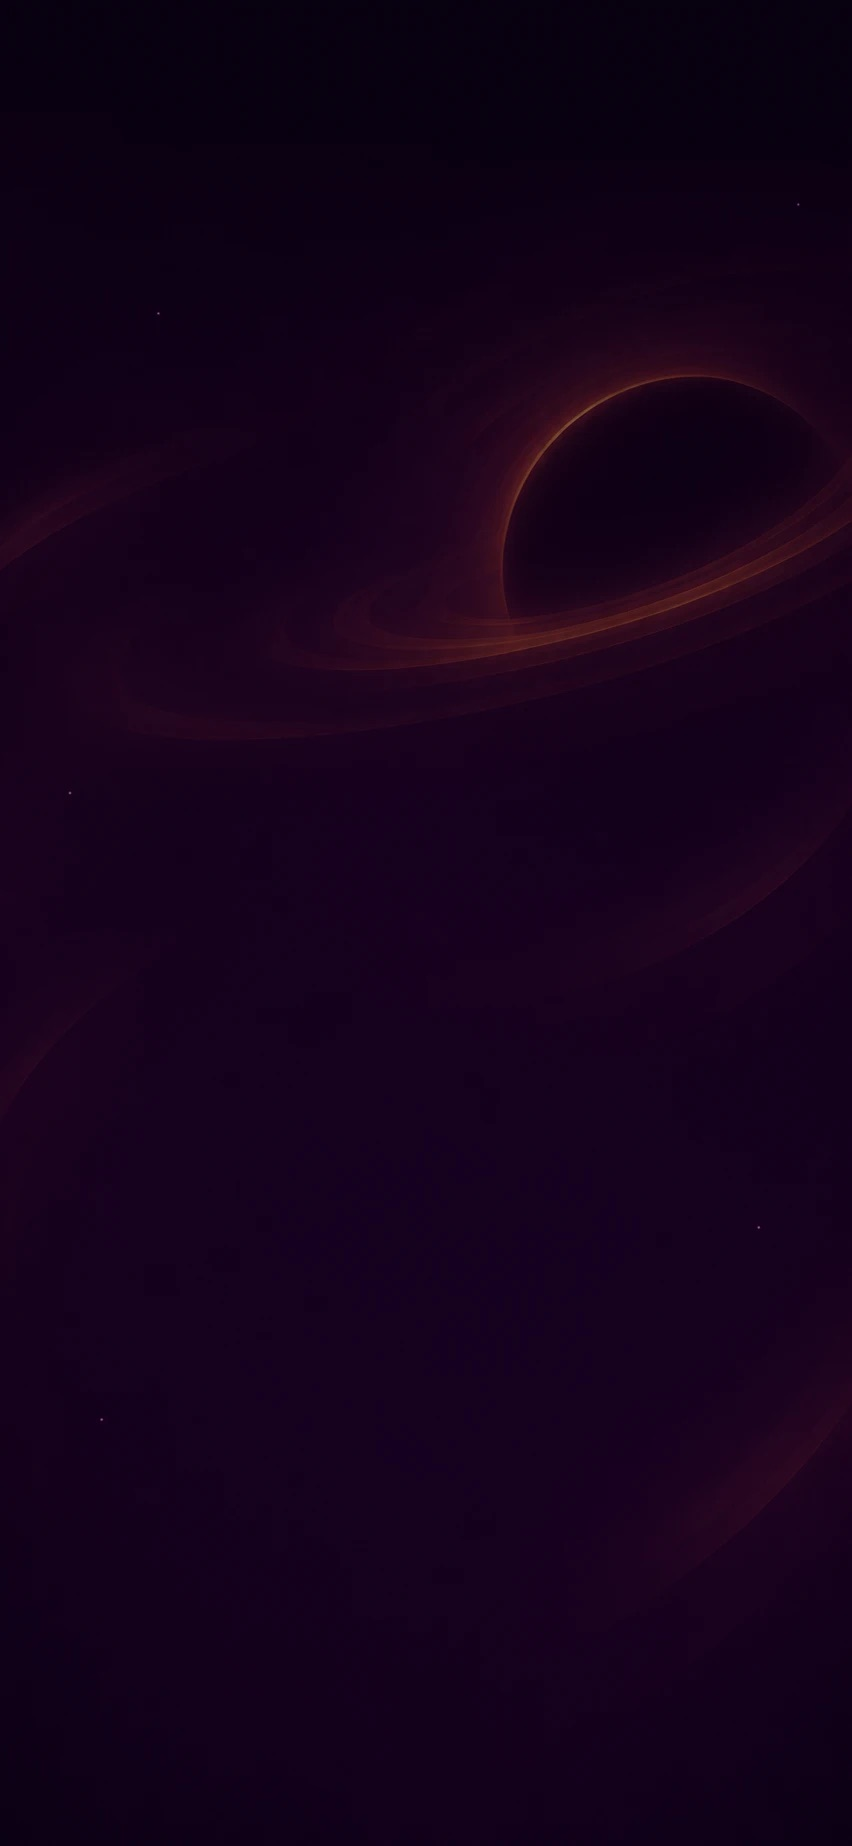
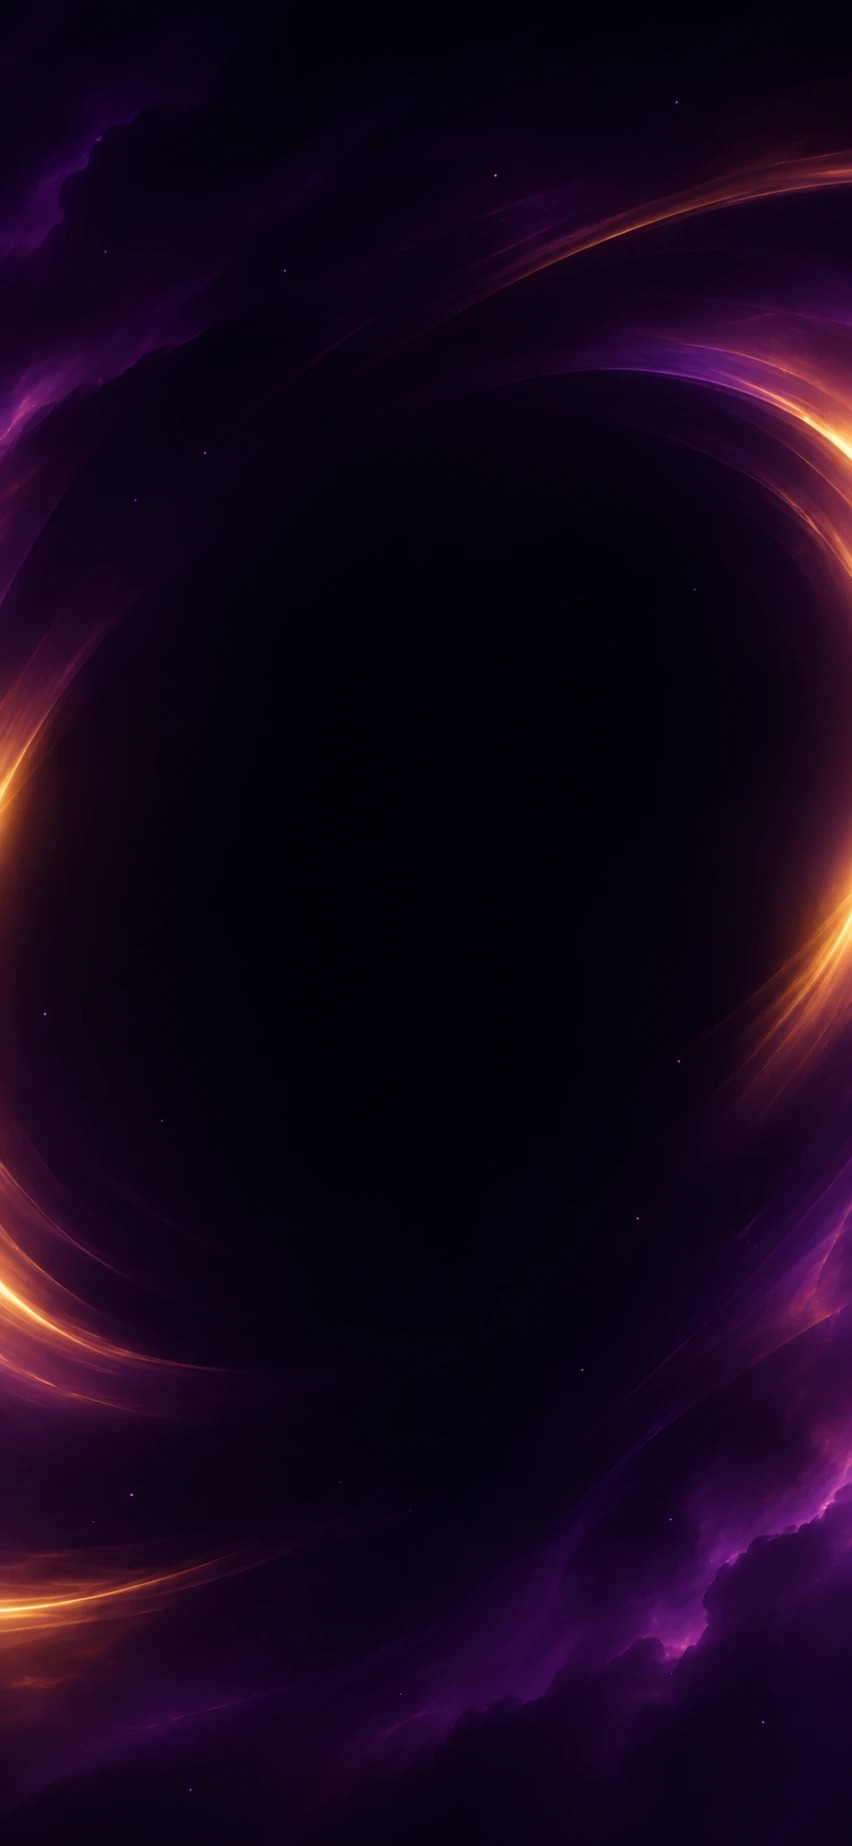
first-encounter explain cards, close-up black hole background, RESET in DEV, subtler star trails
- The first time something appears (enemy fire, shield, triple/double, bomb, crystal, overdrive,
  iron/explosive rock, meteor/beam warning, phantom, ion cloud) the game pauses with a spotlight
  and a short card; GOT IT resumes; each shown once and saved (ss_seen). Tip toasts removed.
- New close-up black hole background (dark center, gold/violet halo on the edges)
- DEV mode shows a two-tap RESET (progress + seen cards)
- Near-layer star trails much shorter and fainter

diff --git a/index.html b/index.html
@@ -372,6 +372,7 @@ let menuIdx  = 0;   // hedef kart indexi
 let menuAnimX = 0;  // smooth scroll x
 let titleTapCount = 0, titleTapTimer = 0; // gizli test modu: başlığa 5x hızlı dokun
 let devMode = false;
+let resetConfirmT = 0, resetDoneT = 0; // RESET butonu: onay ve 'DONE' göstergesi
 
 // --- Intro Cinematic ---
 const INTRO_PANELS = [
@@ -723,6 +724,10 @@ document.addEventListener('keydown', e => {
     if (e.code === 'Escape' || e.code === 'KeyP' || e.code === 'Space') state = 'play';
     return;
   }
+  if (state === 'play' && introCard) {
+    if ((e.code === 'Enter' || e.code === 'Space') && introCard.t > 15) closeIntroCard();
+    return;
+  }
   if (state === 'play' && briefing) {
     if (e.code === 'Enter' || e.code === 'Space') beginLevelPlay();
     return;
@@ -765,7 +770,7 @@ canvas.addEventListener('touchstart', e => {
 // Oyun içi swipe: parmak kalkmadan, 10px hareket eder etmez anında tetikle
 canvas.addEventListener('touchmove', e => {
   e.preventDefault();
-  if (state !== 'play' || briefing || swipeFired) return;
+  if (state !== 'play' || briefing || introCard || swipeFired) return;
   const t = e.changedTouches[0];
   const dx = t.clientX - touchStartX;
   const dy = t.clientY - touchStartY;
@@ -819,7 +824,7 @@ canvas.addEventListener('mousedown', e => {
 });
 
 canvas.addEventListener('mousemove', e => {
-  if (state !== 'play' || briefing || mouseSwipeFired) return;
+  if (state !== 'play' || briefing || introCard || mouseSwipeFired) return;
   const dx = e.clientX - mouseStartX;
   const dy = e.clientY - mouseStartY;
   if (Math.abs(dx) > Math.abs(dy) && Math.abs(dx) > 10) {
@@ -881,6 +886,17 @@ canvas.addEventListener('click', e => {
     if (mx > W - 48 && my > CARD.y && my < CARD.y + CARD.h) { menuIdx = Math.min(MENU_CARDS.length - 1, menuIdx + 1); return; }
     // Ses butonu (sol alt)
     if (mx < 60 && my > H - 40) { Sound.toggle(); Sound.sfx.click(); return; }
+    // RESET (yalnızca DEV modunda, iki dokunuşla): tüm ilerlemeyi ve açıklamaları sıfırlar
+    if (devMode && mx > W - 112 && mx < W - 58 && my > H - 36) {
+      Sound.sfx.click();
+      if (resetConfirmT > 0) {
+        ['ss_levels', 'ss_zones', 'ss_complete', 'ss_seen', 'ss_tutorial'].forEach(k => { try { localStorage.removeItem(k); } catch(e) {} });
+        seenIntro = {};
+        MENU_CARDS.forEach((c, i) => { c.locked = i > 0; });
+        resetConfirmT = 0; resetDoneT = 120;
+      } else resetConfirmT = 150;
+      return;
+    }
     // DEV butonu (sağ alt)
     if (mx > W - 52 && my > H - 36) {
       devMode = !devMode;
@@ -921,6 +937,10 @@ canvas.addEventListener('click', e => {
     exitZoneTransition(); return;
   }
 
+  if (state === 'play' && introCard) {
+    if (introCard.t > 15 && introBtn && inBtn(introBtn, mx, my)) closeIntroCard();
+    return;
+  }
   if (state === 'play' && briefing) {
     // Talimat kartı: sadece START başlatır
     if (briefBtn && inBtn(briefBtn, mx, my)) { Sound.sfx.click(); beginLevelPlay(); }
@@ -959,7 +979,7 @@ function startLevel(level) {
   asteroids = []; asteroidSpawnTimer = 0;
   boss = null; bossKillTimer = 0; returnToMap = false;
   lasers = []; deathCause = '';
-  countdown = 0; levelPlayT = 0; toasts = []; tipPlan = []; hurtFx = 0; bossWarn = 0; crystalFly = []; crystalPulse = 0;
+  countdown = 0; levelPlayT = 0; toasts = []; tipPlan = []; hurtFx = 0; bossWarn = 0; crystalFly = []; crystalPulse = 0; introCard = null;
   briefing = !!LEVEL_BRIEFS[level];
   // Zone 3: sis bulutları ekranı baştan kaplasın
   const _cfg = getLevelConfig();
@@ -1266,9 +1286,9 @@ function drawZoneBackdrop(zone) {
   // Önde akan yıldızlar (hız hissi)
   ctx.save();
   stars.forEach(st => {
-    if (st.spd > 1.4) { // yakın katman: hızlı, kısa iz
-      ctx.strokeStyle = `rgba(255,255,255,${0.2 + st.spd * 0.15})`; ctx.lineWidth = st.s;
-      ctx.beginPath(); ctx.moveTo(st.x, st.y - st.spd * 5); ctx.lineTo(st.x, st.y); ctx.stroke();
+    if (st.spd > 1.4) { // yakın katman: hızlı, çok kısa ve soluk iz
+      ctx.strokeStyle = `rgba(255,255,255,${0.14 + st.spd * 0.07})`; ctx.lineWidth = st.s * 0.9;
+      ctx.beginPath(); ctx.moveTo(st.x, st.y - st.spd * 1.8); ctx.lineTo(st.x, st.y); ctx.stroke();
     } else {            // uzak katman: soluk nokta
       ctx.fillStyle = `rgba(255,255,255,${0.15 + st.spd * 0.2})`;
       ctx.beginPath(); ctx.arc(st.x, st.y, st.s * 0.8, 0, Math.PI * 2); ctx.fill();
@@ -2529,6 +2549,88 @@ function drawBriefing() {
   ctx.restore();
 }
 
+// --- İlk karşılaşma açıklaması: bir şey oyunda İLK KEZ görününce oyun durur, kısaca anlatılır (bir kez, kalıcı) ---
+const FIRST_SEEN = {
+  shot:      { title: 'ENEMY FIRE',     text: 'Red shots cost a life. Change lanes to dodge them.' },
+  shield:    { title: 'SHIELD',         text: 'Blocks every hit for a few seconds.' },
+  triple:    { title: 'TRIPLE SHOT',    text: 'Fires three shots at once for a few seconds.' },
+  double:    { title: 'DOUBLE SHOT',    text: 'Fires two shots at once for a few seconds.' },
+  bomb:      { title: 'BOMB',           text: 'Destroys every enemy on the screen.' },
+  crystal:   { title: 'CRYSTAL',        text: 'Fly over crystals to fill the Overdrive bar.' },
+  overdrive: { title: 'OVERDRIVE',      text: 'Rapid triple fire, and crystals fly to you.' },
+  iron:      { title: 'IRON ROCK',      text: "Can't be destroyed and blocks your shots. Dodge it." },
+  explosive: { title: 'EXPLOSIVE ROCK', text: 'Shoot it to blow up everything nearby.' },
+  meteor:    { title: 'METEOR WARNING', text: 'Meteors are coming down this lane. Move out!' },
+  phantom:   { title: 'PHANTOM',        text: 'Turns invisible. Shots pass through it while hidden.' },
+  ion:       { title: 'ION CLOUD',      text: 'Your guns jam inside it. Steer around it.' },
+  beam:      { title: 'BEAM WARNING',   text: 'A beam will fire down this lane. Move out!' },
+};
+let seenIntro = {};
+try { seenIntro = JSON.parse(localStorage.getItem('ss_seen') || '{}') || {}; } catch(e) { seenIntro = {}; }
+let introCard = null;   // { key, x, y, t }
+let introBtn = null;
+function markSeen(key) { seenIntro[key] = 1; try { localStorage.setItem('ss_seen', JSON.stringify(seenIntro)); } catch(e) {} }
+// Ekranda yeni bir şey var mı? (oyuncunun tepki verecek vakti olacak yükseklikteyken)
+function checkFirstSeen() {
+  const vis = y => y > HUD_H + 30 && y < H * 0.62;
+  const want = (key, x, y) => { if (!seenIntro[key] && !introCard) { introCard = { key, x, y, t: 0 }; Sound.sfx.click(); } };
+  for (const p of powerups) if (FIRST_SEEN[p.type] && vis(p.y)) want(p.type, p.x, p.y);
+  for (const c of crystals) if (vis(c.y)) want('crystal', c.x, c.y);
+  if (overdriveTimer > OVERDRIVE_TIME - 3) want('overdrive', player.x, player.y);
+  for (const a of asteroids) {
+    if (a.type === 'iron' && vis(a.y)) want('iron', a.x, a.y);
+    if (a.type === 'explosive' && vis(a.y)) want('explosive', a.x, a.y);
+  }
+  for (const L of lasers) if (L.t > 2) want(L.meteor ? 'meteor' : 'beam', LANE_CENTERS[L.lane], H * 0.45);
+  for (const e of enemies) if (e.phantom && e.alpha > 0.9 && vis(e.y)) want('phantom', e.x, e.y);
+  for (const c of ionClouds) if (vis(c.y)) want('ion', LANE_CENTERS[c.lane], c.y);
+  for (const b of eBullets) if (vis(b.y)) want('shot', b.x, b.y);
+}
+function closeIntroCard() { if (!introCard) return; markSeen(introCard.key); introCard = null; Sound.sfx.click(); }
+function drawIntroCard() {
+  const C = introCard; if (!C) return;
+  const D = FIRST_SEEN[C.key], zc = SECTOR_COLORS[currentZone - 1];
+  const a = Math.min(1, C.t / 10);
+  ctx.save(); ctx.globalAlpha = a;
+  // Spot ışığı: nesnenin etrafı açık, geri kalan karartılmış
+  const g = ctx.createRadialGradient(C.x, C.y, 34, C.x, C.y, 90);
+  g.addColorStop(0, 'rgba(0,0,12,0)'); g.addColorStop(1, 'rgba(0,0,12,0.72)');
+  ctx.fillStyle = g; ctx.fillRect(0, 0, W, H);
+  // Nabız gibi atan halka
+  const pulse = 0.5 + 0.5 * Math.sin(frameCount * 0.15);
+  ctx.strokeStyle = '#fff'; ctx.lineWidth = 2; ctx.shadowColor = zc; ctx.shadowBlur = 14;
+  ctx.beginPath(); ctx.arc(C.x, C.y, 36 + pulse * 6, 0, Math.PI * 2); ctx.stroke(); ctx.shadowBlur = 0;
+  // Kart: nesne üst yarıdaysa altında, alt yarıdaysa üstünde
+  ctx.font = `600 14px ${TEXT_FONT}`;
+  const lines = wrapText(D.text, W - 110).map(r => r.text);
+  const cw = W - 60, ch = 64 + lines.length * 20 + 60, cx = 30;
+  const cy = C.y < H / 2 ? Math.min(H - ch - 30, C.y + 60) : Math.max(HUD_H + 20, C.y - 60 - ch);
+  // bağlantı çizgisi
+  ctx.strokeStyle = zc; ctx.globalAlpha = a * 0.6; ctx.lineWidth = 1.5;
+  ctx.beginPath(); ctx.moveTo(C.x, C.y + (C.y < H / 2 ? 42 : -42)); ctx.lineTo(Math.max(cx + 30, Math.min(cx + cw - 30, C.x)), C.y < H / 2 ? cy : cy + ch); ctx.stroke();
+  ctx.globalAlpha = a;
+  chamferPath(cx, cy, cw, ch, 14);
+  const bg = ctx.createLinearGradient(0, cy, 0, cy + ch);
+  bg.addColorStop(0, 'rgba(10,22,50,0.97)'); bg.addColorStop(1, 'rgba(5,10,26,0.97)');
+  ctx.fillStyle = bg; ctx.fill();
+  ctx.strokeStyle = zc; ctx.lineWidth = 2; ctx.shadowColor = zc; ctx.shadowBlur = 12; ctx.stroke(); ctx.shadowBlur = 0;
+  ctx.textBaseline = 'middle'; ctx.textAlign = 'center';
+  ctx.fillStyle = zc;
+  drawSpaced('NEW', W / 2, cy + 20, 10, 700, MONO_FONT, 4);
+  ctx.fillStyle = '#fff';
+  drawSpaced(D.title, W / 2, cy + 42, 16, 700, UI_FONT, 3, cw - 30);
+  ctx.font = `600 14px ${TEXT_FONT}`; ctx.fillStyle = '#e8f3ff';
+  lines.forEach((t, k) => ctx.fillText(t, W / 2, cy + 68 + k * 20));
+  const bw = 150, bh = 40, bx = W / 2 - bw / 2, by = cy + ch - bh - 14;
+  introBtn = { x: bx, y: by, w: bw, h: bh };
+  chamferPath(bx, by, bw, bh, 11);
+  ctx.fillStyle = zc + '33'; ctx.fill();
+  ctx.strokeStyle = zc; ctx.lineWidth = 2; ctx.stroke();
+  ctx.fillStyle = '#fff';
+  drawSpaced('GOT IT', W / 2, by + bh / 2 + 1, 14, 700, UI_FONT, 3);
+  ctx.restore();
+}
+
 // --- Oyun içi geri bildirimler ---
 // Bildirim (ipucu / dalga tamamlandı): üstte kısa süre görünen köşeli şerit
 let toasts = [];     // { text, color, t, dur }
@@ -2546,7 +2648,7 @@ function beginLevelPlay() {
   countdown = 90; // 3 · 2 · 1 (her biri 0.5 sn), ardından GO
   levelPlayT = 0; lastWaveSeen = 1; toasts = [];
   const B = LEVEL_BRIEFS[currentLevel];
-  tipPlan = B && B.tips ? B.tips.map((text, k) => ({ at: 150 + k * 900, text })) : [];
+  tipPlan = []; // ipuçları artık ilk karşılaşmada duraklayarak anlatılıyor
   Sound.sfx.count(3);
 }
 function drawFeedbackOverlays() {
@@ -2881,7 +2983,7 @@ function update() {
   {
     const mz = state === 'menu' ? menuIdx + 1 : state === 'zonetransition' ? zoneTransIdx + 2 : state === 'intro' ? (cinePanels === ENDING_PANELS ? 4 : 1) : currentZone;
     const lastWave = !boss && currentLevel % 5 !== 0 && getWave() >= currentLevel * 5;
-    const intense = state === 'play' && !briefing && (!!boss || lastWave);
+    const intense = state === 'play' && !briefing && !introCard && (!!boss || lastWave);
     Sound.setMusic(mz, intense, state === 'paused' ? 0.45 : state === 'play' && !briefing ? 1 : 0.75);
   }
 
@@ -2890,6 +2992,8 @@ function update() {
     if (s.y > H) { s.y = 0; s.x = Math.random() * W; }
   });
 
+  if (resetConfirmT > 0) resetConfirmT--;
+  if (resetDoneT > 0) resetDoneT--;
   // Harita: göreve dokunma animasyonu bitince bölümü başlat
   if (mapPress) { if (state !== 'map') mapPress = null; else if (++mapPress.t >= 12) { const lv = mapPress.lv; mapPress = null; startLevel(lv); } }
 
@@ -2965,6 +3069,9 @@ function update() {
     if (countdown === 0) Sound.sfx.go();
     return;
   }
+  if (introCard) { introCard.t++; return; } // ilk karşılaşma açıklaması: oyun donuk
+  checkFirstSeen();
+  if (introCard) return;
   levelPlayT++;
   playFrames++;
   tipPlan.forEach(tp => { if (levelPlayT === tp.at) showToast(tp.text); });
@@ -3936,6 +4043,15 @@ function drawMenu() {
   ctx.strokeRect(W - 52, H - 36, 44, 26);
   ctx.fillStyle = devMode ? '#fc0' : 'rgba(255,255,255,0.4)';
   ctx.fillText('DEV', W - 30, H - 23);
+  if (devMode) { // RESET: ilk dokunuşta SURE?, ikincide sıfırlar
+    const armed = resetConfirmT > 0;
+    ctx.fillStyle = armed ? 'rgba(255,60,80,0.3)' : 'rgba(255,255,255,0.08)';
+    ctx.fillRect(W - 112, H - 36, 54, 26);
+    ctx.strokeStyle = armed ? 'rgba(255,90,110,0.8)' : 'rgba(255,255,255,0.2)';
+    ctx.strokeRect(W - 112, H - 36, 54, 26);
+    ctx.fillStyle = armed ? '#ff8a9a' : resetDoneT > 0 ? '#7dffb0' : 'rgba(255,255,255,0.5)';
+    ctx.fillText(armed ? 'SURE?' : resetDoneT > 0 ? 'DONE' : 'RESET', W - 85, H - 23);
+  }
 
   // Ses butonu (sol alt köşe)
   ctx.fillStyle = 'rgba(255,255,255,0.08)';
@@ -4190,6 +4306,7 @@ function render() {
 
   drawHUD();
   if (state === 'play') drawFeedbackOverlays();
+  if (state === 'play' && introCard) drawIntroCard();
   if (state === 'play' && briefing) drawBriefing();
 }
 

diff --git a/sw.js b/sw.js
@@ -1,4 +1,4 @@
-const CACHE = 'space-shooter-v7';
+const CACHE = 'space-shooter-v8';
 const ASSETS = ['./index.html', './manifest.json', './ASSETS/spaceship.png', './ASSETS/enemy1.png', './ASSETS/enemy2.png', './ASSETS/enemy3.png', './ASSETS/boss.png', './icon-192.png', './icon-512.png', './ASSETS/cards/deep-space.jpg', './ASSETS/cards/asteroid-belt.jpg', './ASSETS/cards/nebula.jpg', './ASSETS/cards/black-hole.jpg', './ASSETS/backgrounds/deep-space.jpg', './ASSETS/backgrounds/asteroid-belt.jpg', './ASSETS/backgrounds/nebula.jpg', './ASSETS/backgrounds/black-hole.jpg', './ASSETS/rocks/rock-small-1.png', './ASSETS/rocks/rock-small-2.png', './ASSETS/rocks/rock-small-3.png', './ASSETS/rocks/rock-medium-1.png', './ASSETS/rocks/rock-medium-2.png', './ASSETS/rocks/rock-medium-3.png', './ASSETS/rocks/rock-large-1.png', './ASSETS/rocks/rock-large-2.png', './ASSETS/rocks/rock-large-3.png'];
 
 self.addEventListener('install', e => {
